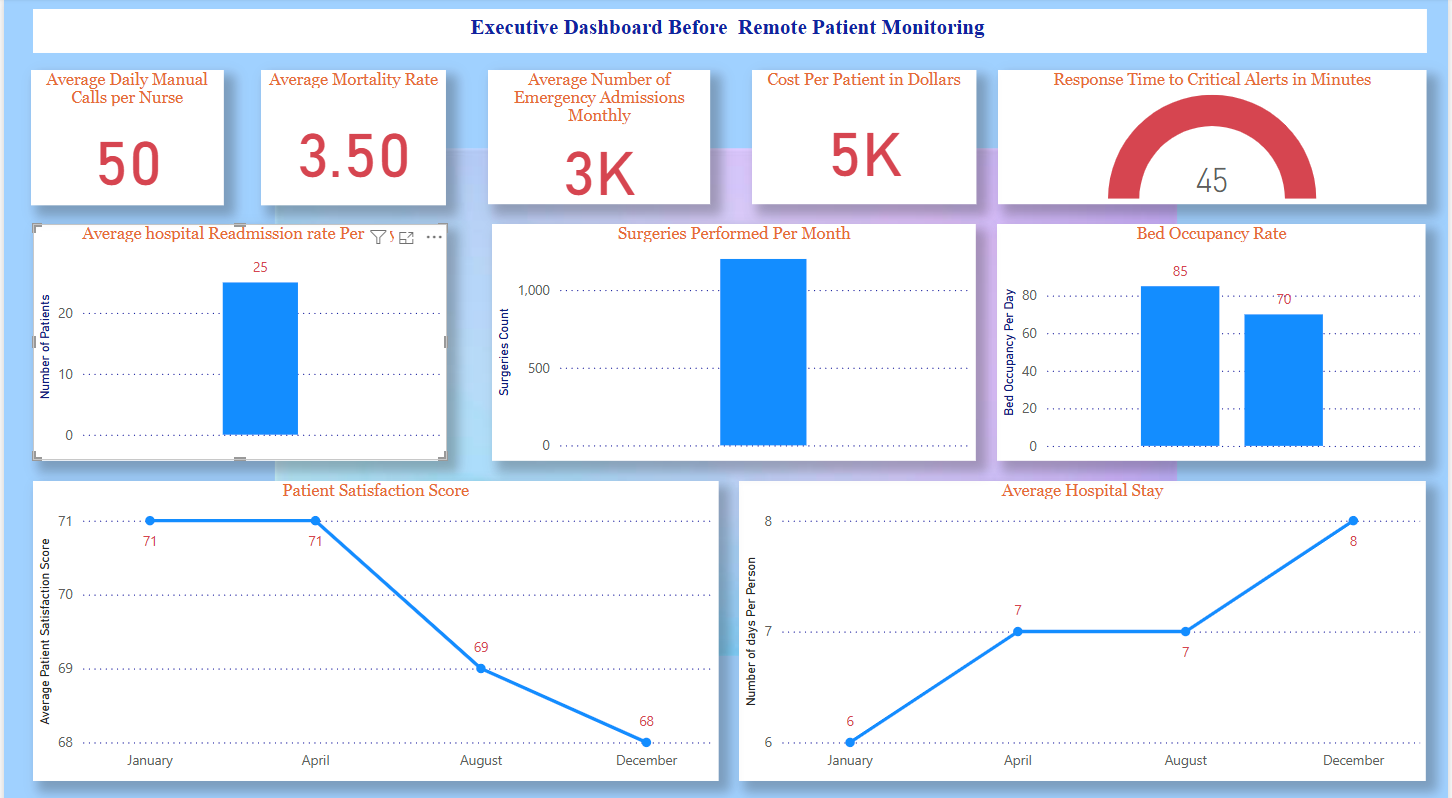
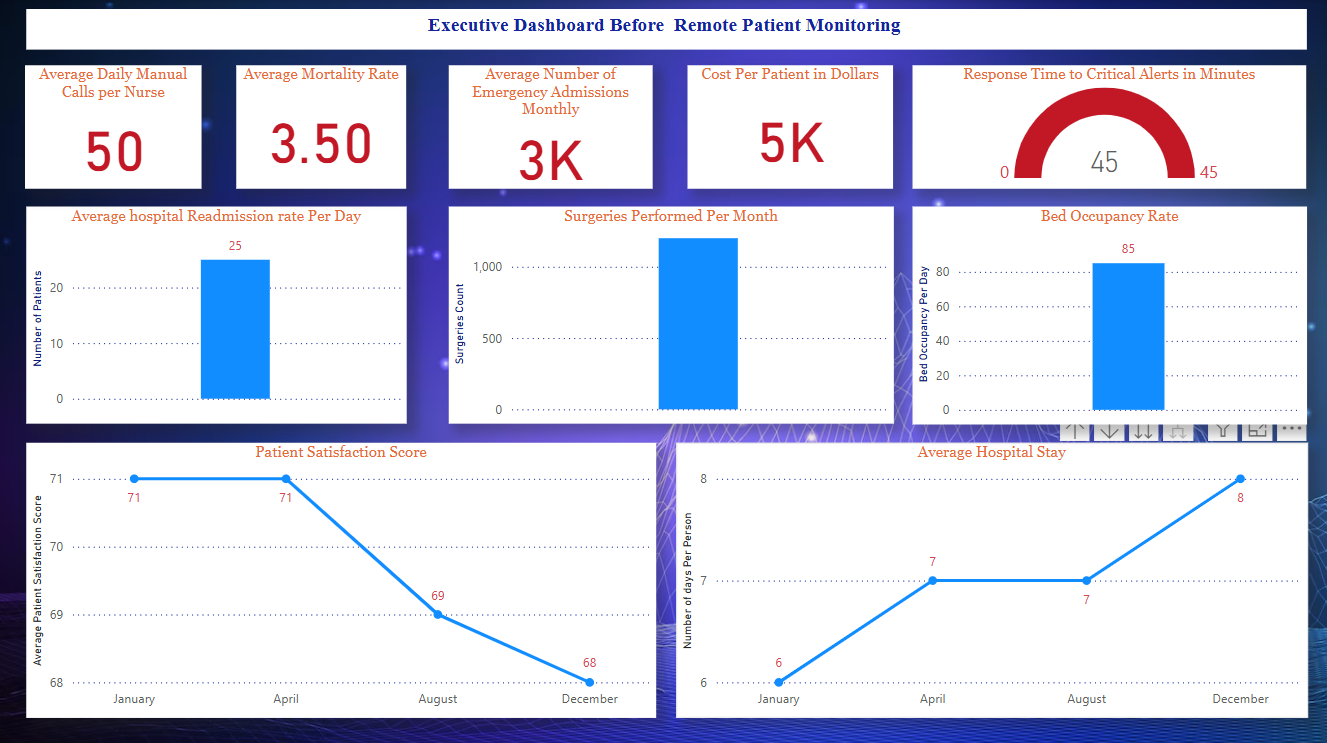
feat: changes

diff --git a/public/config.js b/public/config.js
@@ -49,8 +49,8 @@ window.config = {
     },
     {
       id: 3,
-      url: "/problem-statement",
-      name: "Problem Statement",
+      url: "/executive-dashboard-before",
+      name: "Executive Dashboard - Before",
       icon: "https://nrfcdn.azureedge.net/left-nav-icons/icon1_3.png",
       arrowIcon: null,
       order: 1,
@@ -96,6 +96,30 @@ window.config = {
         "https://openaidemoassets.blob.core.windows.net/personas/April.png",
     },
     // {
+    //   id: 3,
+    //   url: "/realtime-dashboard",
+    //   name: "Real Time Dashboard Monitoring",
+    //   icon: "https://nrfcdn.azureedge.net/left-nav-icons/icon1_3.png",
+    //   arrowIcon: null,
+    //   order: 1,
+    //   componentId: 3,
+    //   componentName: "rtm dashboard",
+    //   componentParameters: [
+    //     {
+    //       id: 1,
+    //       key: "url",
+    //       value:
+    //         // "https://dreamdemoassets.blob.core.windows.net/nrf/telco_orgchart_updatedV2.png"
+    //         "",
+    //     },
+    //   ],
+    //   externalArrows: [],
+    //   personaId: 1,
+    //   personaName: "April",
+    //   personaImageUrl:
+    //     "https://openaidemoassets.blob.core.windows.net/personas/April.png",
+    // },
+    // {
     //   id: 1,
     //   url: "/mediguard-assurance-agent",
     //   name: "Mediguard Assurance Agent",
@@ -120,7 +144,7 @@ window.config = {
     {
       id: 3,
       url: "/backend-video",
-      name: "Solution Backend",
+      name: "Real Time Patient Monitoring",
       title: "",
       //  icon: "https://dreamdemoassets.blob.core.windows.net/sustainability/images/icon_video.png",
       icon: "https://dreamdemoassets.blob.core.windows.net/daidemo/post-fabric-icon.png",
@@ -173,7 +197,7 @@ window.config = {
     {
       id: 2,
       url: "/KPI",
-      name: "Executive Dashboard",
+      name: "Executive Dashboard - After",
       icon: "https://nrfcdn.azureedge.net/left-nav-icons/icon1_4.png",
       arrowIcon: null,
       order: 1,

diff --git a/src/pages/RTMDashboard/index.tsx b/src/pages/RTMDashboard/index.tsx
@@ -10,14 +10,14 @@ import {
 import { FC, useEffect, useMemo, useState } from "react";
 import styles from "./styles.module.scss";
 import problemStatement from "./problem_statement.png"
-import dashboard_before from "./dashboard_before.png"
+// import dashboard_before from "./dashboard_before.png"
 
-export const ProblemStatement: FC = () => {
+export const RTMDashboard: FC = () => {
   return (
     <div className={styles.container}>
       <div className={styles.subContainer}>
         {/* <h4>The goal is to help doctors watch chronic illnesses like diabetes or abnormal heart rate in real time from home, catch problems early, and make care easier for patients and providers.</h4> */}
-        <img src={dashboard_before} alt="architecture" />
+        {/* <img src={dashboard_before} alt="architecture" /> */}
       </div>
     </div>
   );

diff --git a/src/pages/KPIS/index.tsx b/src/pages/KPIS/index.tsx
@@ -9,19 +9,15 @@ import {
 } from "@progress/kendo-react-conversational-ui";
 import { FC, useEffect, useMemo, useState } from "react";
 import styles from "./styles.module.scss";
-import KPI from "./before_chatbot.jpg";
+// import KPI from "./before_chatbot.jpg";
+import Source from './dashboard_after.png'
+
 
 export const KPIS: FC = () => {
   return (
     <div className={styles.container}>
       <div className={styles.subContainer}>
-        <iframe
-          title="Rpm-KPIs-v2"
-          width="95%"
-          height="100%"
-          src="https://app.powerbi.com/reportEmbed?reportId=54c6e977-0a9a-4bd6-9879-4db3f73569b2&autoAuth=true&ctid=e6e6c779-4c40-45d8-9921-00f00a06d3a8"
-          allowFullScreen
-        ></iframe>
+        <img src={Source} alt="dashboard-after" />
       </div>
     </div>
   );

diff --git a/src/components/GenerateRouteElement/index.tsx b/src/components/GenerateRouteElement/index.tsx
@@ -41,6 +41,7 @@ import { OldWebsite } from "pages/OldWebsite";
 import { PredictChurn } from "pages/PredictChurn";
 import { ReImaginedNewWebsite } from "pages/ReImaginedNewWebsite";
 import { ReImaginedNewWebsiteScope } from "pages/ReImaginedNewWebsiteScope";
+import { RTMDashboard } from "pages/RTMDashboard";
 import { SetupWizardPersona } from "pages/SetupWizardPersona";
 import { ShoppingCopilotMTC } from "pages/ShoppingCopilotMTC";
 import { ThankYou } from "pages/ThankYou";
@@ -307,6 +308,8 @@ export const GenerateRouteElement: FC<Props> = ({ data }) => {
       return <DemoVideo />;
     case "kpi":
       return <KPIS />;
+    case "rtm dashboard":
+      return <RTMDashboard/>
     case "customer review":
       return (
         <CustomerReview liveHosted={data?.componentParameters?.liveHosted} />

diff --git a/src/pages/Architecture/styles.module.scss b/src/pages/Architecture/styles.module.scss
@@ -33,8 +33,8 @@
   align-items: center;
   img{
     height: 100%;
-    width: 100%;
-    object-fit:contain;
+    width: 90%;
+    // object-fit:contain;
   }
 }
 

diff --git a/src/pages/KPIS/styles.module.scss b/src/pages/KPIS/styles.module.scss
@@ -35,9 +35,8 @@
     color:#091F2C;
   }
   img{
-    height: 90%;
-    // width: 70%;
-    object-fit:contain;
+    width: 95%;
+    height: 100%;
   }
 }
 

diff --git a/src/pages/RTMDashboard/styles.module.scss b/src/pages/RTMDashboard/styles.module.scss
@@ -36,8 +36,8 @@
   }
   img{
     height: 100%;
-    width: 95%;
-    // object-fit:cover;
+    width: 100%;
+    object-fit:contain;
   }
 }
 
